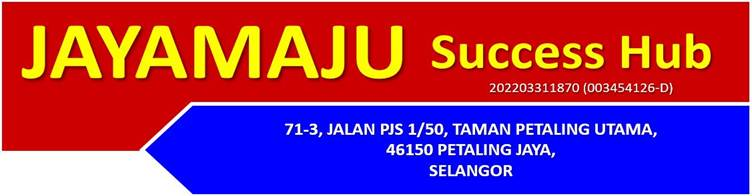
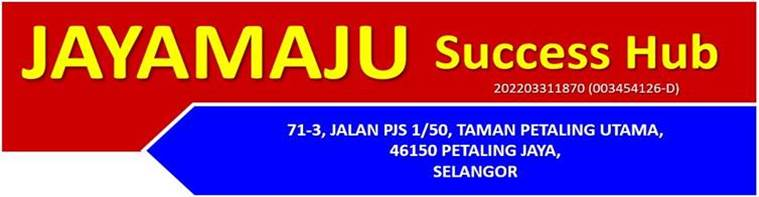
g1

diff --git a/akta/appgg1.html b/akta/appgg1.html
@@ -59,8 +59,7 @@ p.MsoListParagraphCxSpLast, li.MsoListParagraphCxSpLast, div.MsoListParagraphCxS
 	font-size:11.0pt;
 	font-family:"Aptos",sans-serif;}
 .MsoChpDefault
-	{font-size:11.0pt;
-	font-family:"Aptos",sans-serif;}
+	{font-family:"Aptos",sans-serif;}
 .MsoPapDefault
 	{margin-bottom:8.0pt;
 	line-height:107%;}
@@ -115,9 +114,8 @@ ul
   <td width=782 colspan=3 valign=top style='width:586.65pt;padding:0cm 5.4pt 0cm 5.4pt'>
   <p class=MsoNormal align=center style='margin-bottom:0cm;margin-bottom:0cm;
   margin-top:0cm;text-align:center;line-height:normal'><span lang=EN-US
-  style='font-size:10.0pt'><img width=752 height=196 id="Picture 1"
-  src="appgg1_files/image001.jpg"
-  alt="A red and blue sign with yellow text&#10;&#10;Description automatically generated"></span></p>
+  style='font-size:10.0pt'><img width=759 height=197 id="Picture 1"
+  src="appgg1_files/image001.jpg"></span></p>
   </td>
  </tr>
  <tr>
@@ -144,7 +142,7 @@ ul
   Pembangunan Kerajaan Tempatan (KPKT). Modul ini juga akan menyentuh perkara
   berkaitan urus tadbir berkaitan perlesenan yang perlu di patuhi oleh setiap
   pemohon yang telah memperolehi lesen. Seksyen serta peraturan yang akan di
-  ajar dalam Modul 1 adalah seperti berikut:-</span></p>
+  ajar dalam Modul 1 adalah seperti berikut :-</span></p>
   <p class=MsoNormal style='margin-bottom:0cm'>&nbsp;</p>
   <table class=MsoNormalTable border=1 cellspacing=0 cellpadding=0 width=568
    style='width:426.25pt;border-collapse:collapse;border:none'>
